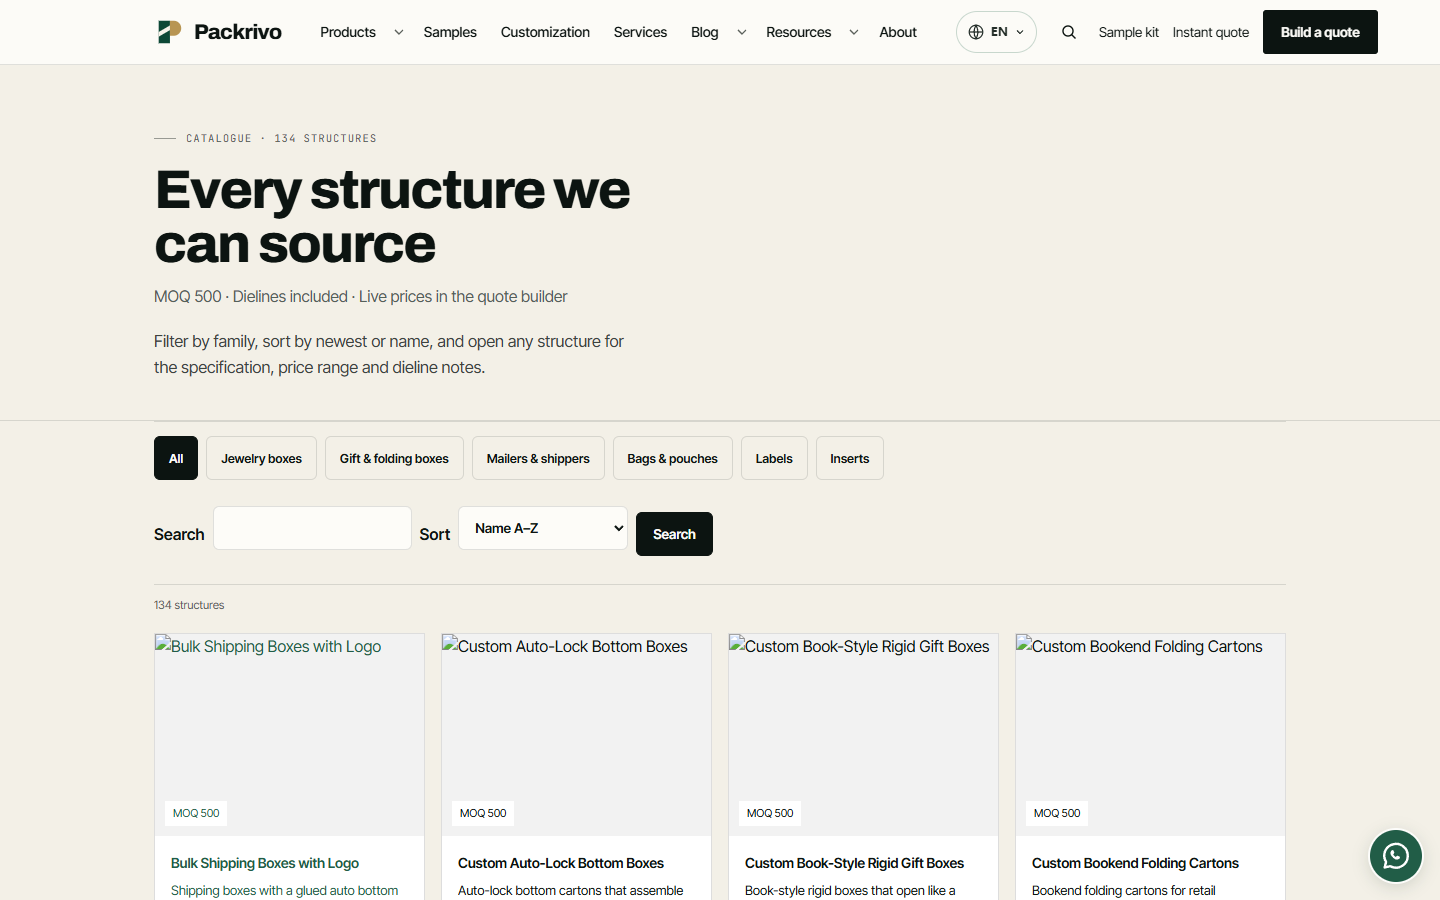
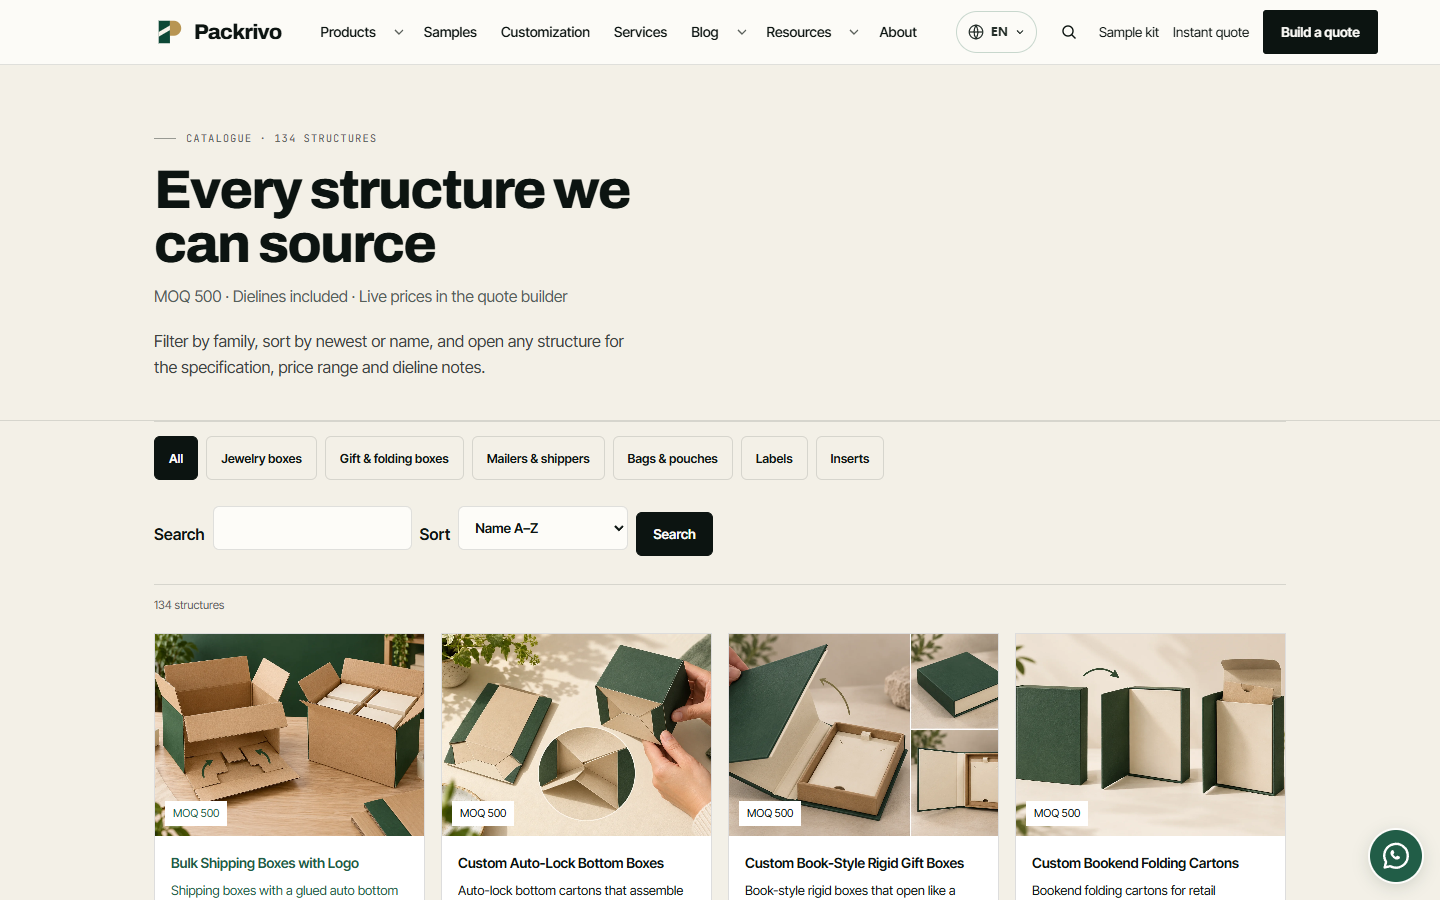
feat(29z): 生产执行记录 D.0 -> D.5（09e272e 授权，停 D.5.5 等清缓存）
按 2026-10-30 10:33 的第三次授权在生产上执行附录 D，逐条下发、逐条看输出：

  $BACKUP = /home/web/backups/29z-20261030-103332
  D.0   ORIGIN_IP=172.18.0.1，两条 ⛳ PASS；探测 11 行全 PASS（HTTP/2 200、server: nginx、无 cf、110923B×2、哈希相同）
  D.0-5 4.0.1 / catalog 208 / 1688 209 / ¥ 209
  D.1   6 个文件哈希逐个相同，zip 791169B
  D.1b  B1~B7 = PASS=7 FAIL=0，home-before 0fd4f570…
  D.1c  主题 38 文件 85d23202… / mu 5ab5be3f 12390B / 三表 29393833B c2d9e18c…
  D.2   4.0.4 active，容器无 patch 走 PHP 兜底，mu 73d43ba0…，字体 200/font-woff2/34952
  D.3   dry 210 -> apply 210 -> 再跑 0（幂等），审计 10451B
  D.4   不一致 0；/ /products/ /get-a-quote/ 均 200
  D.5   PASS=32 FAIL=0 SKIP=1

停在 D.5.5：清 Cloudflare 缓存由负责人执行，之后补改后截图、4f、全站复测。
证据：deploy/LAUNCH-LOG-2026-10-30.md 末节 + evidence/products-shots/before-*（本次生产的改前图）。
门禁 7/7 PASS。

Changed region(s): [[0.0938, 0.6844, 0.9062, 0.9333]]

diff --git a/deploy/LAUNCH-LOG-2026-10-30.md b/deploy/LAUNCH-LOG-2026-10-30.md
@@ -182,3 +182,171 @@ publish_yen = 209
 生产同构下三轮全绿（日志 `deploy/verification-29z/evidence/rehearsal-29z-sequence-v5.log`，530 行）：
 D.0 ⛳ 两条 PASS、探测直连 nginx 200 且无 CF、前态 308,696 B、正向 23/0/1 + 4f、回滚哈希/计数/字体四条全对、
 再正向与首轮逐项相同。**生产仍是 4.0.1 + ¥209 + mu `5ab5be3f`，本次只改仓库。**
+
+---
+
+# 附：第三次授权（`09e272e`）—— 本次实际执行记录
+
+## A0. 授权与锁定核对（开工前）
+
+```text
+授权           = 负责人 2026-10-30 10:33 消息（3774617 / 6466878 / 7db9557 全部作废）
+HEAD           = 09e272e08151a6f56f6ea25bb52a1a91be3d7624                 ✅
+HEAD:deploy/RUNBOOK-launch.md = b3edcd71ee33fcbf982dd2a4aefd3026022e4930 ✅
+磁盘 hash-object = b3edcd71ee33fcbf982dd2a4aefd3026022e4930                ✅
+29z-criteria.sh = 13079 B / 1f6dd732275191c58b780af068220a40e2d85cb6226bbe90b78d9322a0dbe546 ✅
+工作区           = 干净
+开工（UTC）      = 2026-10-30 10:33:24（消息后 0 分钟，在 3 小时窗内）
+生产 curl        = 8.14.1 (x86_64-pc-linux-gnu) libcurl/8.14.1 OpenSSL/3.5.7
+$BACKUP          = /home/web/backups/29z-20261030-103332
+```
+
+## A1. D.0（全部 PASS，零 FAIL）
+
+**D.0-1 变量 + ORIGIN_IP ⛳ 两条**
+
+```text
+ORIGIN_IP=172.18.0.1
+PASS ORIGIN_IP 是单个 IPv4
+PASS 容器经 CURLX 打源站 = 200
+```
+
+**D.0-2 / D.0-3**
+
+```text
+host mkdir OK / container mkdir OK
+drwxr-xr-x /home/web/backups/29z-20261030-103332（+ 29z/ 子目录）
+drwxr-xr-x /root/29z-pkg
+drwxr-xr-x /pkg（已存在）
+WPCLI core version = 7.1.4
+packrivo-home-v4	active	4.0.1
+```
+
+**D.0-4 直连源站探测（11 条全 PASS）**
+
+```text
+HTTP/2 200
+server: nginx
+PASS head 的 stderr 为空
+PASS 头文件首行是 HTTP 200
+PASS 头文件里 server: nginx
+PASS 无 cf-ray / cf-cache-status
+0fd4f570f5c471719d06bf781a996f1328729dce2dd9c4c85a8330fea50c5b54  probe1.html
+0fd4f570f5c471719d06bf781a996f1328729dce2dd9c4c85a8330fea50c5b54  probe2.html
+1                                                                   （<html 命中）
+PASS probe1 有内容 110923B
+PASS probe1 是本次抓的（mtime 1793356461 >= 1793356461）
+PASS probe1 的 stderr 为空
+PASS probe2 有内容 110923B
+PASS probe2 是本次抓的（mtime 1793356461 >= 1793356461）
+PASS probe2 的 stderr 为空
+<title>Custom Jewelry Boxes &amp; Packaging with Logo | Packrivo</title>
+```
+
+**D.0-5 只读预检 ⛳**
+
+```text
+packrivo-home-v4	active	4.0.1
+catalog 页数 = 208
+含 1688 的 publish 行 = 209
+含 ¥ 的 publish 行 = 209
+```
+
+三条与预期一致（208 / 209 / 209）。
+
+## A2. D.1 上传与核对（6 个文件，逐个相同）
+
+```text
+3279dc6121cee305dbbf620beb7b7da45334886b779d7d2ece68004ceda4aed6  packrivo-home-v4.zip
+3c1be67b5c5a8298e317fb13ae1d910c64343370ebb440b0fb42d5fcb6f4f3fd  strip-1688.php
+0deea313611ff71a760baae5646bcd0252f1cbad5bdb85d0ab3e2953e112ee1e  strip-1688.sh
+022c5a1666538f732bbda2911c1632b5c2285fcf393f78561efc876ce595451d  packrivo-wave2-font-path.patch
+64c8768e5ba3e00281fda4d5937f8c57a03cf5871818a84c2363095b0dda269b  apply-font-patch.php
+1f6dd732275191c58b780af068220a40e2d85cb6226bbe90b78d9322a0dbe546  29z-criteria.sh
+791169 packrivo-home-v4.zip
+条目数 = 6
+```
+
+## A3. D.1b 前态快照 —— B1～B7 全 PASS
+
+```text
+容器内脚本 sha256 = 1f6dd732… / 13079 B
+快照 before: pages 733 / meta 804 / index 774 / cards 24 / products 313656B / curl_stderr 0B
+PASS  B1 pages 快照行数（≥ 400，实际 733）
+PASS  B2 meta 快照行数（≥ 200，实际 804）
+PASS  B3 index 快照行数（≥ 200，实际 774）
+PASS  B4 products-before.html 字节数（≥ 100000，实际 313656）
+PASS  B5 /products/ 卡片数（期望 24，实际 24）
+PASS  B6 products-before 的 curl stderr 字节数（期望 0，实际 0）
+PASS  B7 catalog 页 ID 条数（期望 208，实际 208）
+PASS=7  FAIL=0    退出码 0
+home-before.html = 0fd4f570…（110923 B），与 D.0-4 两次探测哈希一致
+```
+
+改前截图（打生产域名，1440 / 375）：`status=200 cards=24 overflow=false yen_in_dom=0`，图 434099 B / 131926 B。
+
+## A4. D.1c 备份（回滚只认这三样）
+
+```text
+主题目录 4.0.1：38 文件
+  目录哈希 = 85d2320276b21a5b53d4f32eeb9323ec915bc02d289cf48e912ec6001c7a76cc
+  Version: 4.0.1
+mu 原文件：5ab5be3f85f46ce5416fdb4cafc98f54de86a1fc4ece041c56c2de40173a1d8c（12390 B）
+  容器内 .orig-29w 同哈希
+三表导出：29393833 B / c2d9e18cba4d44eecc51f6bf9220867437c2116e2ac67e8e3e74e42c84164e57
+  容器 /tmp/29z-pre.sql 已删
+```
+
+**一处与演练不同（如实记录，不影响判据）**：生产 4.0.1 主题目录哈希 `85d23202…` ≠ 演练 `c02a9324…`（文件数都是 38）。
+演练目录来自 `git archive 7fe56ad`，生产目录是线上实际文件，两者内容本来就有差异；回滚判据比的是**本次备份的哈希**，不是演练值。
+
+## A5. D.2 装 4.0.4 + 字体补丁
+
+```text
+/pkg/packrivo-home-v4.zip sha256 = 3279dc6121cee305dbbf620beb7b7da45334886b779d7d2ece68004ceda4aed6
+Theme updated successfully. / Installed 1 of 1 themes.
+packrivo-home-v4	active	4.0.4
+front-page.php 里 'Example quote · Rigid magnetic box' 计数 = 1
+首页直连命中：Example quote · Rigid magnetic box · 9.5×9.5×4 cm
+容器无 patch（sh: patch: not found）→ 走 apply-font-patch.php：applied
+mu sha256 = 73d43ba0262a9d74249b19a46380bc5c338f94bd9e0776baa46eddf074c9f259（与 §6.5 锁定值一致）
+cache flush OK
+字体 URL = https://www.packrivo.com/wp-content/themes/packrivo-static-bridge-1.2.38/packrivo-static/assets/packrivo-inter-latin-v3.woff2
+直连字体：code=200 type=font/woff2 size=34952
+```
+
+## A6. D.3 去价（干跑 / 真跑 / 幂等）
+
+```text
+dry-run : {"changes":210,"leftover_pages":0,"metadesc_unique":208,"metadesc_maxlen":153,...}
+apply   : {"changes":210,...，"indexable_rows":208,"products_p_removed":158,"blog_links_unwrapped":1}
+再跑一次 : {"changes":0,...}   ← 幂等成立
+审计     : 10451 B / 1d76f2e652c96cfca2c893b88b12e1c91f9c268eb8087b06dd3502739a04ffac
+```
+
+## A7. D.4 / D.5
+
+```text
+D.4 indexable 重建：Success. Rows affected: 543；cache flush OK
+D.4 ⛳ 不一致条数 = 0
+三条 200 抽查：/ → 200，/products/ → 200，/get-a-quote/ → 200
+```
+
+**D.5 compare-noshots**
+
+```text
+快照 after: pages 733 / meta 1012 / index 774 / cards 24 / products 312127B / curl_stderr 0B
+0a 0b 0c 0d 0e 0f  PASS（六条输入非空）
+1a 1b 1c 2a 2b 2c 2d 2e 2f 3a 3b  PASS
+4a 4b 4c 4d 4e  PASS   /  4f SKIP（截图本机判）
+5a=210 5b=0 6a=0 6b=208 7=0 7b=208  PASS
+8 五页：ring-box 200/77819/¥0、wooden 200/76445/¥0、velvet 200/89428/¥0、paper 200/84602/¥0、gift 200/80806/¥0
+8 ¥0、8b 5/5  PASS
+9a=200 9b=46 处  PASS
+汇总：PASS=32  FAIL=0  SKIP=1
+```
+
+## A8. 停在 D.5.5（待负责人清 Cloudflare 缓存）
+
+D.0 → D.5 全部 ⛳ 通过，零 FAIL。生产当前 = 4.0.4 + 字体补丁已打 + 正文归零。
+清缓存由负责人执行；之后再做改后截图 → 判据 4f → 全站复测，然后把本节补完。
